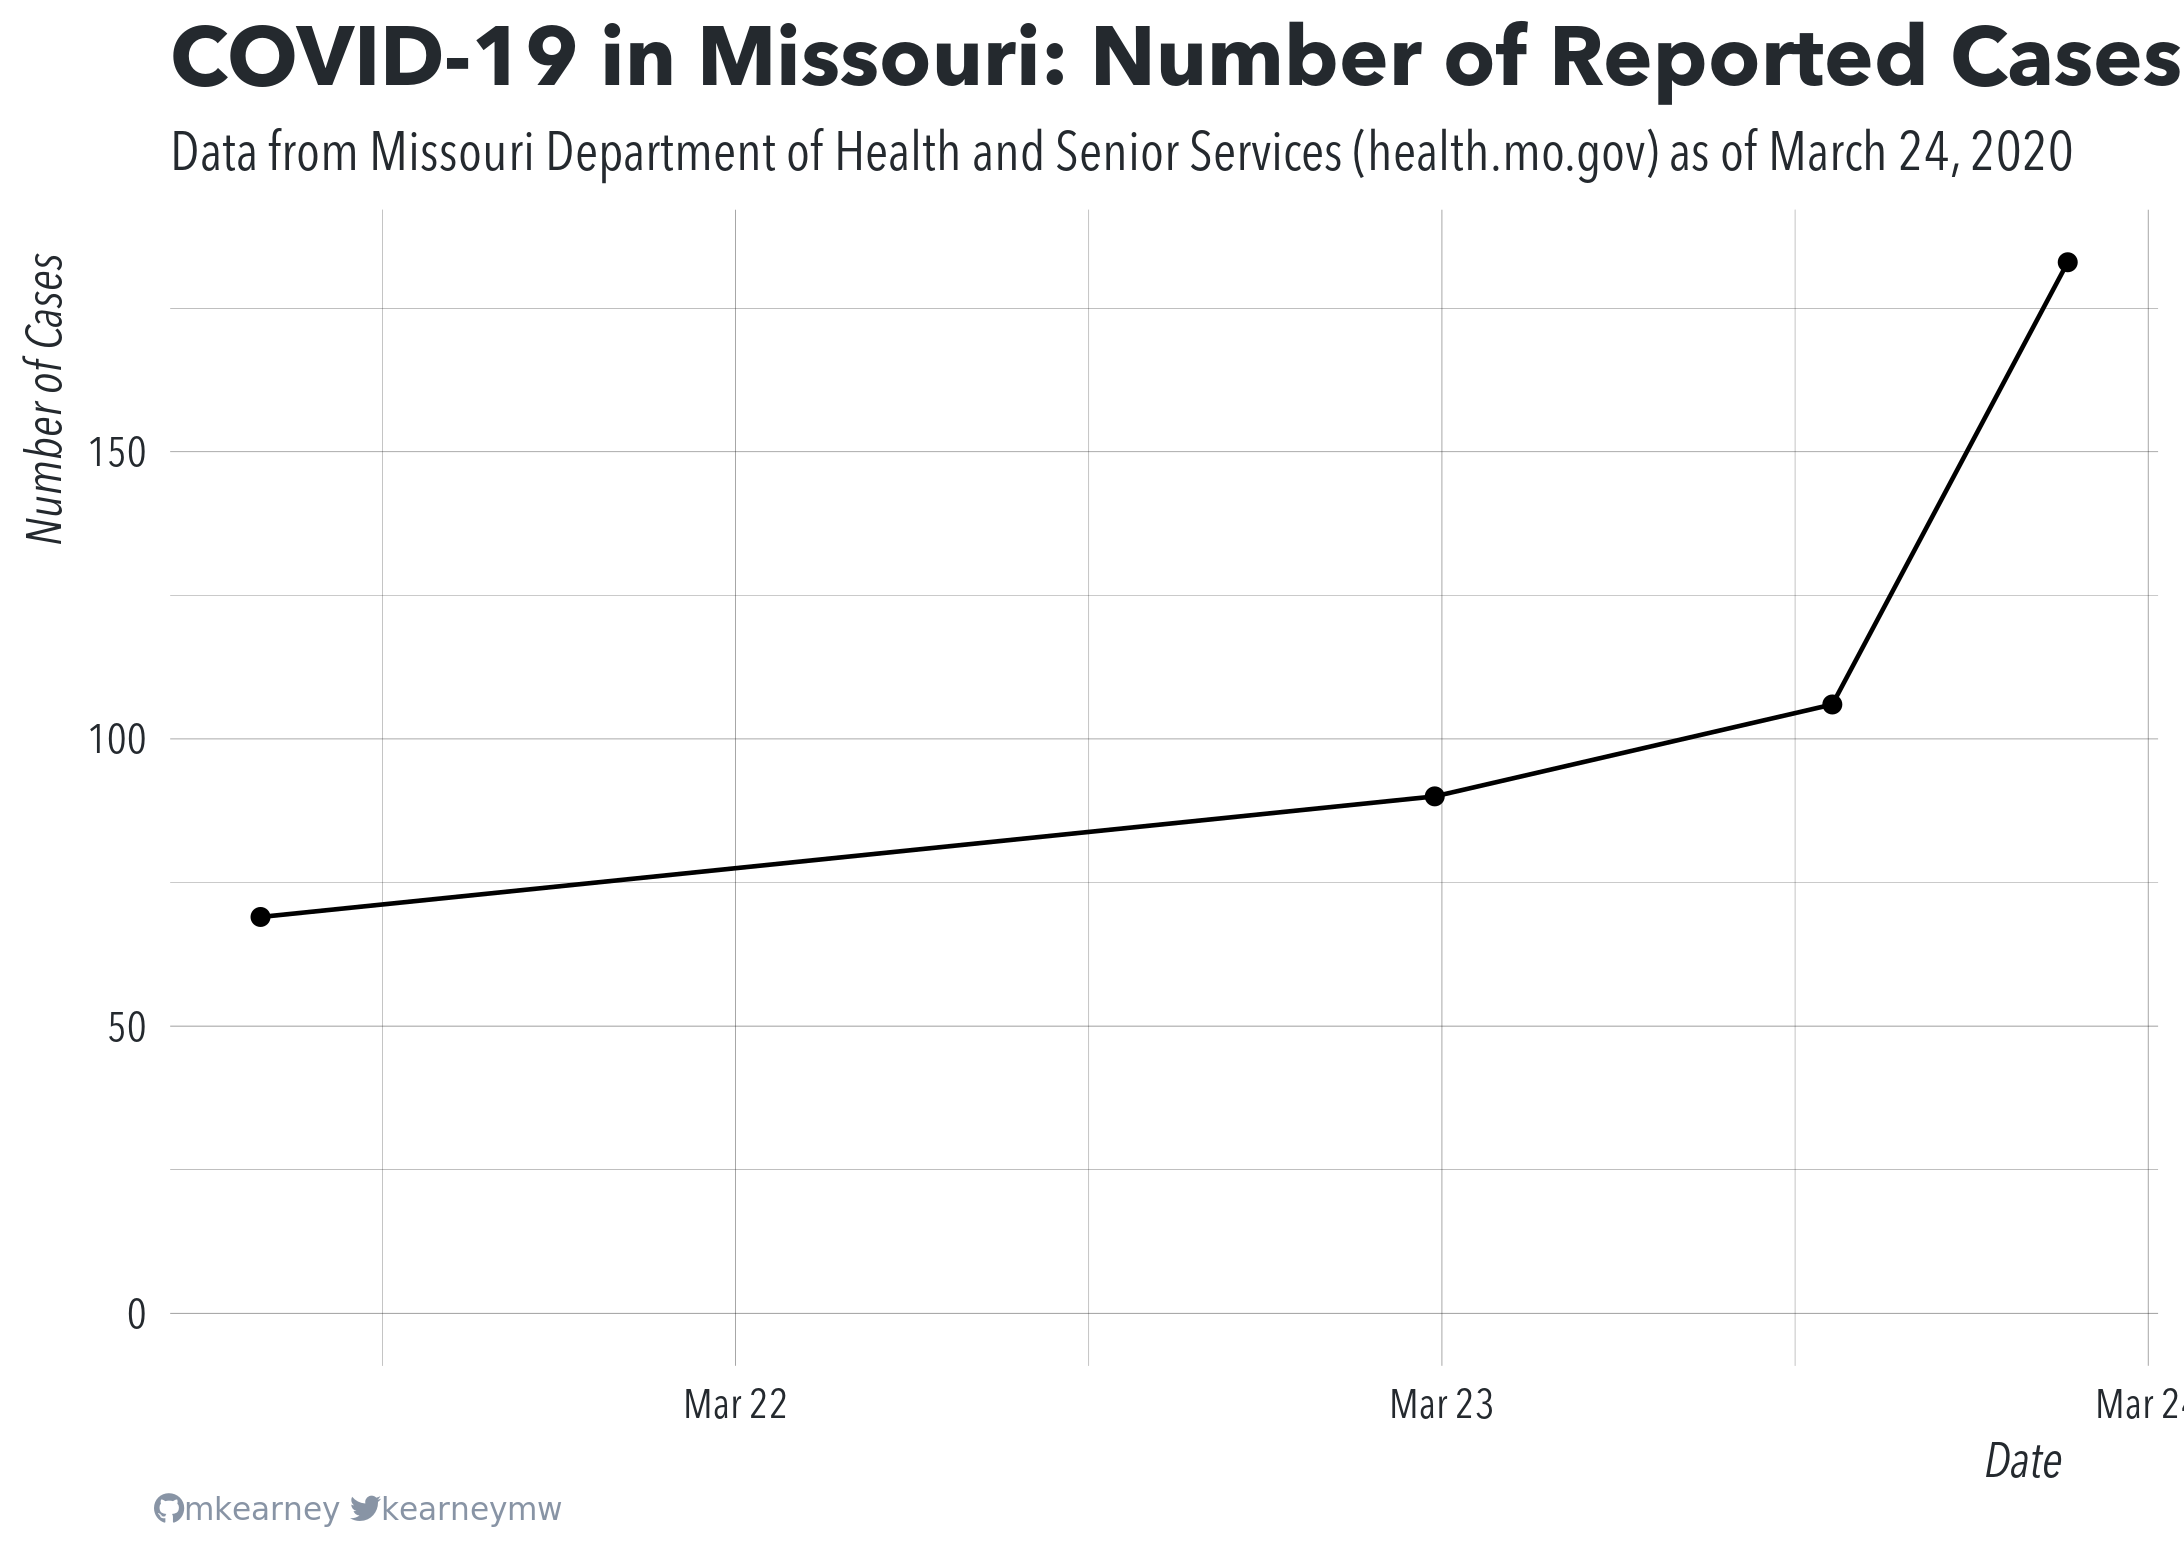
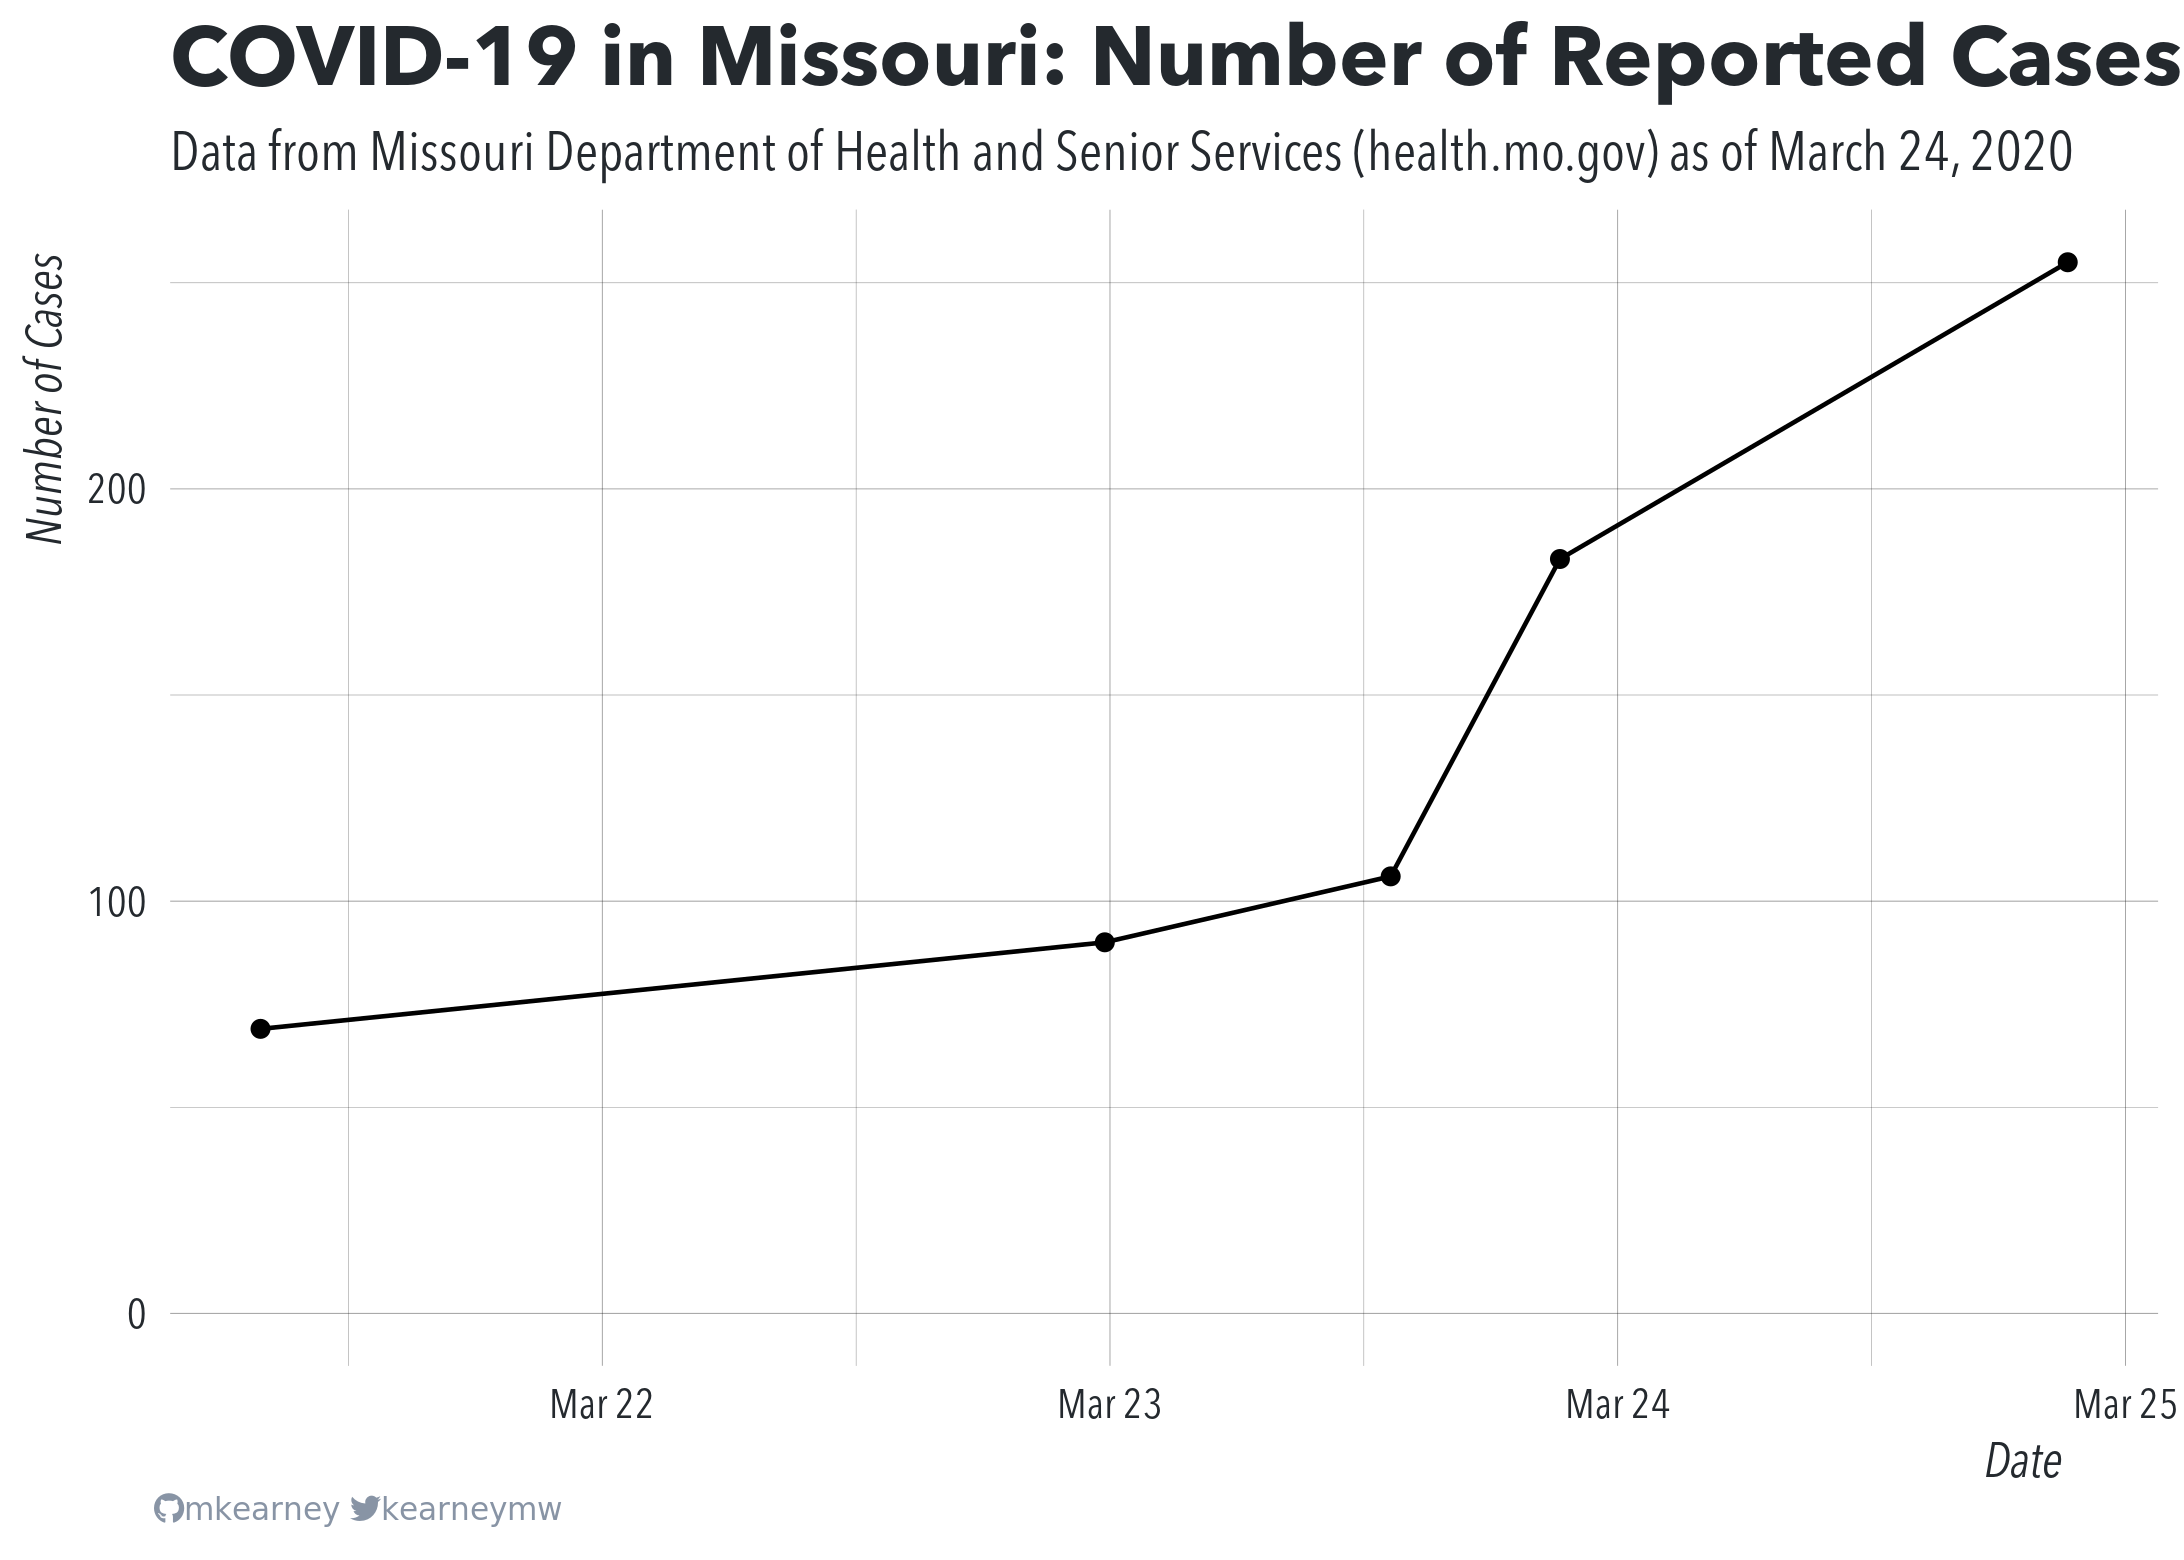
auto update

diff --git a/README.md b/README.md
@@ -25,13 +25,14 @@ at the state or county level:
 ``` r
 ## state totals daya
 suppressMessages(readr::read_csv("data/mo-total.csv"))
-#> # A tibble: 4 x 19
+#> # A tibble: 5 x 19
 #>   state state_abb total_cases state_labs other_labs ages_0_20 ages_20_29
 #>   <chr> <chr>           <dbl>      <dbl>      <dbl>     <dbl>      <dbl>
-#> 1 Miss… MO                183         47        136         3         46
-#> 2 Miss… MO                106         47         59         1         26
-#> 3 Miss… MO                 90         38         52         1         24
-#> 4 Miss… MO                 69         NA         NA        NA         NA
+#> 1 Miss… MO                255         55        200         8         60
+#> 2 Miss… MO                183         47        136         3         46
+#> 3 Miss… MO                106         47         59         1         26
+#> 4 Miss… MO                 90         38         52         1         24
+#> 5 Miss… MO                 69         NA         NA        NA         NA
 #> # … with 12 more variables: ages_30_39 <dbl>, ages_40_49 <dbl>,
 #> #   ages_50_59 <dbl>, ages_60_69 <dbl>, ages_70_plus <dbl>,
 #> #   transmission_travel <dbl>, transmission_contact <dbl>,
@@ -40,20 +41,20 @@ suppressMessages(readr::read_csv("data/mo-total.csv"))
 
 ## county data
 suppressMessages(readr::read_csv("data/mo-county.csv"))
-#> # A tibble: 370 x 6
+#> # A tibble: 401 x 6
 #>    county    total state_lab other_lab  fips timestamp          
 #>    <chr>     <dbl>     <dbl>     <dbl> <dbl> <dttm>             
-#>  1 Adair         2         0         2 29001 2020-03-24 17:16:01
-#>  2 Bates         1         0         1 29013 2020-03-24 17:16:01
-#>  3 Boone        17         1        16 29019 2020-03-24 17:16:01
-#>  4 Callaway      1         0         1 29027 2020-03-24 17:16:01
-#>  5 Camden        1         1         0 29029 2020-03-24 17:16:01
-#>  6 Cass          6         2         4 29037 2020-03-24 17:16:01
-#>  7 Christian     1         1         0 29043 2020-03-24 17:16:01
-#>  8 Clinton       1         0         1 29049 2020-03-24 17:16:01
-#>  9 Cole          5         3         2 29051 2020-03-24 17:16:01
-#> 10 Dunklin       1         0         1 29069 2020-03-24 17:16:01
-#> # … with 360 more rows
+#>  1 Adair         1         0         1 29001 2020-03-24 21:16:01
+#>  2 Bates         1         0         1 29013 2020-03-24 21:16:01
+#>  3 Boone        20         1        19 29019 2020-03-24 21:16:01
+#>  4 Callaway      2         0         2 29027 2020-03-24 21:16:01
+#>  5 Camden        1         1         0 29029 2020-03-24 21:16:01
+#>  6 Cass          6         2         4 29037 2020-03-24 21:16:01
+#>  7 Christian     1         1         0 29043 2020-03-24 21:16:01
+#>  8 Clay          2         0         2 29047 2020-03-24 21:16:01
+#>  9 Clinton       1         0         1 29049 2020-03-24 21:16:01
+#> 10 Cole          5         3         2 29051 2020-03-24 21:16:01
+#> # … with 391 more rows
 ```
 
 ![](img/timeseries.png)
